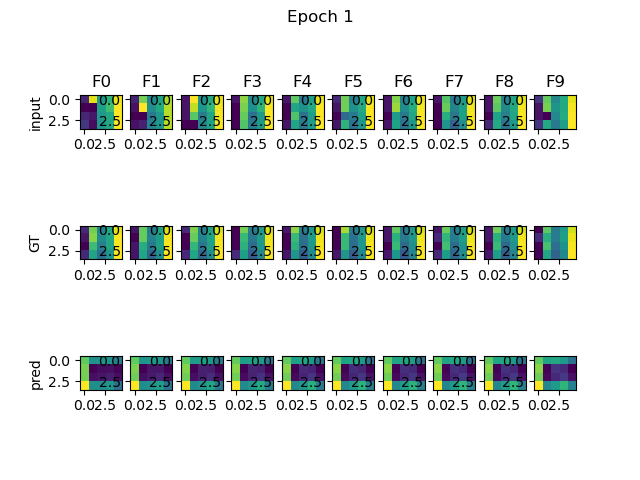
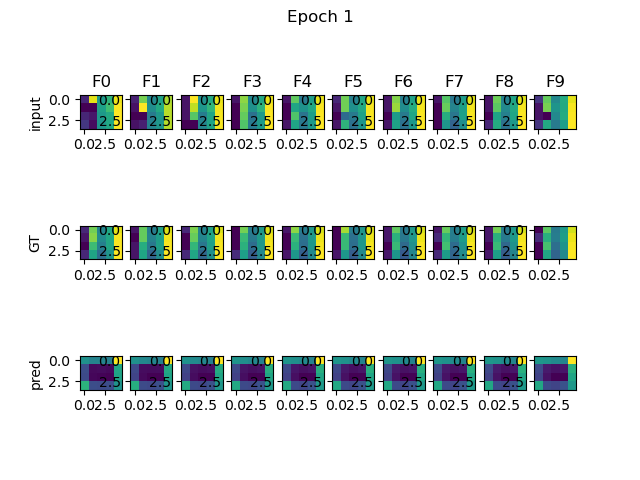
fixed plot

Changed region(s): [[0.125, 0.7188, 0.9062, 0.8125]]

diff --git a/main/base_lightning_modules/base_model.py b/main/base_lightning_modules/base_model.py
@@ -38,7 +38,7 @@ class BaseModel(LightningModule):
         x, y = batch
         if batch_idx == 0:
             visualize_predictions(x, y, self(x), path=self.params.save_path)
-        pred_y = self(x)
+        pred_y = self.generator(x, future_step=y.shape[1])[0]
         loss = F.mse_loss(pred_y, y)
         self.log("val_mse", loss, prog_bar=True)
         return {"val_mse": loss}
@@ -109,7 +109,9 @@ class BaseModel(LightningModule):
         test_dl = self.trainer.test_dataloaders[0]
         for batch in test_dl:
             x, y = batch
-            pred_y = self.generator(x.to(self.device), future_step=y.shape[1])[0]
+            pred_y = self.generator(x.to(self.device), future_step=y.shape[1])[
+                0
+            ]
             pred_y_city = pred_y[0, :, -1, 2].cpu()
             y_city = y[0, :, -1, 2]
             xs = t.arange(len(pred_y_city))
@@ -120,8 +122,16 @@ class BaseModel(LightningModule):
                 os.path.join(self.params.save_path, "168_final_prediction.png")
             )
             plt.clf()
-            plt.plot(xs[:self.params.test_seq_len], pred_y_city[:self.params.test_seq_len], label="prediction")
-            plt.plot(xs[:self.params.test_seq_len], y_city[:self.params.test_seq_len], label="ground truth")
+            plt.plot(
+                xs[: self.params.test_seq_len],
+                pred_y_city[: self.params.test_seq_len],
+                label="prediction",
+            )
+            plt.plot(
+                xs[: self.params.test_seq_len],
+                y_city[: self.params.test_seq_len],
+                label="ground truth",
+            )
             plt.legend()
             plt.savefig(
                 os.path.join(self.params.save_path, "10_final_prediction.png")
